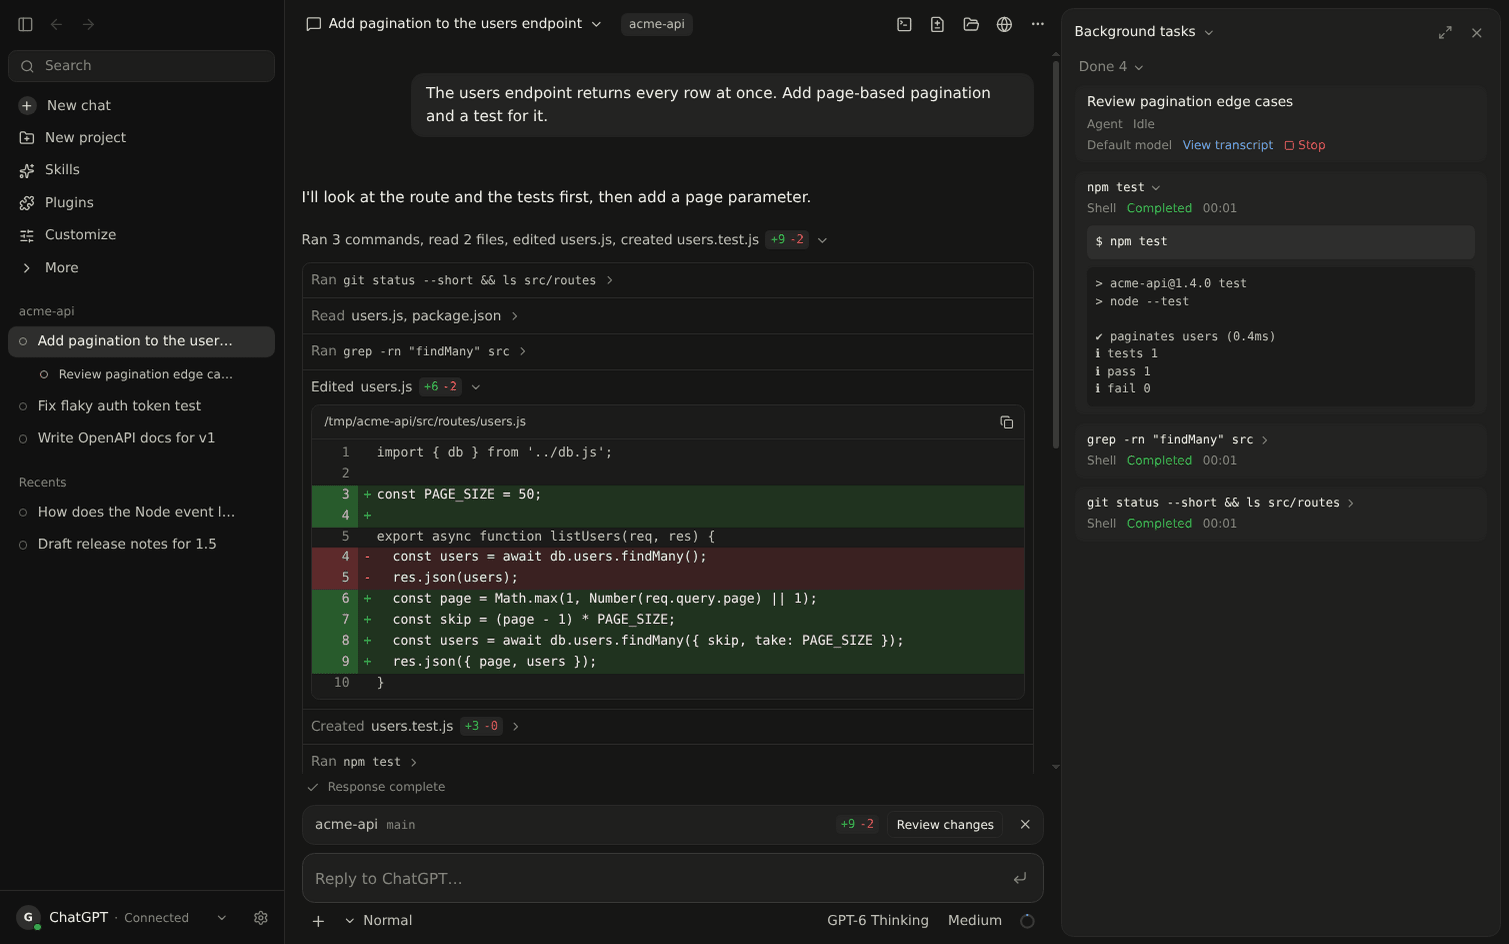
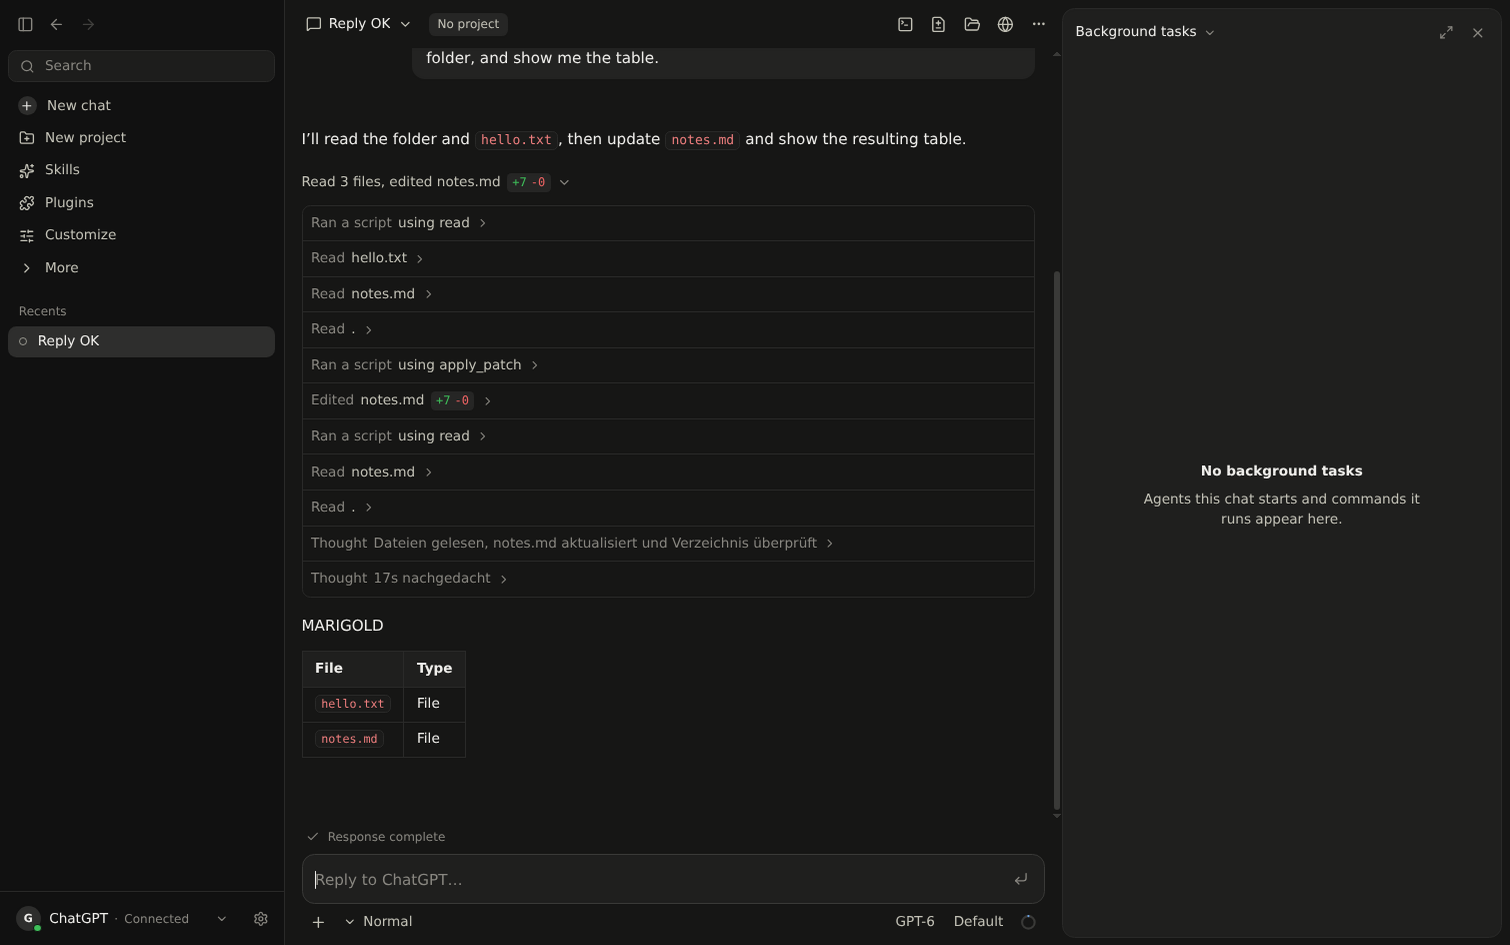
Release version 0.4.0
Refresh the README images from a live run, show the CLI as a recorded GIF, and describe the new
terminal rendering, shortcuts and live tests.

diff --git a/README.md b/README.md
@@ -19,7 +19,7 @@ Follow the conversation, inspect file changes and manage background tasks in one
 
 Work from your project directory with streaming replies, file diffs and command output.
 
-![Chat on Creatine CLI](docs/screenshots/cli.png)
+![A task in the Chat on Creatine CLI](docs/screenshots/cli.gif)
 
 ## Download
 
@@ -58,8 +58,9 @@ The CLI starts Electron in the background when needed. `login` opens the ChatGPT
 signing in from either interface signs you in to both.
 
 Use `/help` for commands, `/model` to choose a model, `/gui` to open the desktop app and
-`/exit` to quit. Slash commands suggest completions as you type; Tab completes the name.
-Ctrl+O opens the full tool transcript; PgUp/PgDn scrolls it. Esc stops a running task.
+`/exit` to quit. Slash commands suggest completions as you type; Tab completes the name and
+`?` lists the shortcuts. Replies render Markdown with tables and highlighted code. Ctrl+O opens
+the full transcript with every tool's arguments and output. Esc stops a running task.
 
 Your current directory is the working folder; `-C` selects another one. Add `--yolo` for
 unrestricted tools. That setting is shared with the desktop app; `/permissions` changes it.
@@ -69,6 +70,7 @@ unrestricted tools. That setting is shared with the desktop app; `/permissions` 
 ```sh
 npm run dev         # electron-vite with HMR
 npm run verify      # repository rules, typecheck, tests, build
+npm run test:live   # the real app against your signed-in ChatGPT account (test/live/README.md)
 npm run dist        # installers for this platform into release/ (after npm run tunnel-client)
 ```
 
@@ -78,6 +80,6 @@ pull requests and releases.
 Code map: `src/cli` terminal frontend · `src/shared` contracts · `src/main/app/api.ts` shared frontend handlers ·
 `src/main/mcp` server + tools · `src/main/chatgpt` browser + router ·
 `src/page` in-page driver · `src/main/sessions` history/outbox/recorder · `src/main/{agents,automation}` workers,
-Goal/Loop, Compact & Resume · `src/main/tunnel` connection · `src/renderer` React UI.
+Goal/Loop, Compact & Resume · `src/main/tunnel` connection · `src/renderer` React UI · `test/live` live tests.
 
 Use it within OpenAI's terms; it automates your own ChatGPT session and is not affiliated with OpenAI.

diff --git a/CHANGELOG.md b/CHANGELOG.md
@@ -1,5 +1,21 @@
 # Changelog
 
+## [0.4.0] - 2026-10-12
+
+- Redesign the CLI after Claude Code: tool calls read as `Bash(npm test)` or `Update(app.ts)`
+  with a short result, plans as todo lists, and turns end with how long they took. A spinner line
+  shows what is running, and the prompt sits between rules with model, context and folder below.
+- Render full Markdown in the terminal: headings, emphasis, nested and task lists, quotes, tables
+  with aligned columns and syntax-highlighted code. Long lines wrap at word boundaries.
+- Open the whole transcript with Ctrl+O on a separate screen that scrolls without touching the
+  conversation, and list shortcuts with `?`.
+- Show web citations as their source sites, and stop printing a reply twice when ChatGPT updates
+  its citations after the text.
+- Stop recording ChatGPT's copy of our own tool calls as extra `api_tool.call_tool` steps in the
+  GUI and CLI, and label such steps in older chats by the tool they called.
+- Add `npm run test:live`: GUI and CLI scenarios against the real app and a signed-in account,
+  with a throwaway profile copy, screenshots, GIFs and logs for every run.
+
 ## [0.3.2] - 2026-10-12
 
 - Keep streamed response lines in terminal history instead of showing only the last few lines.
